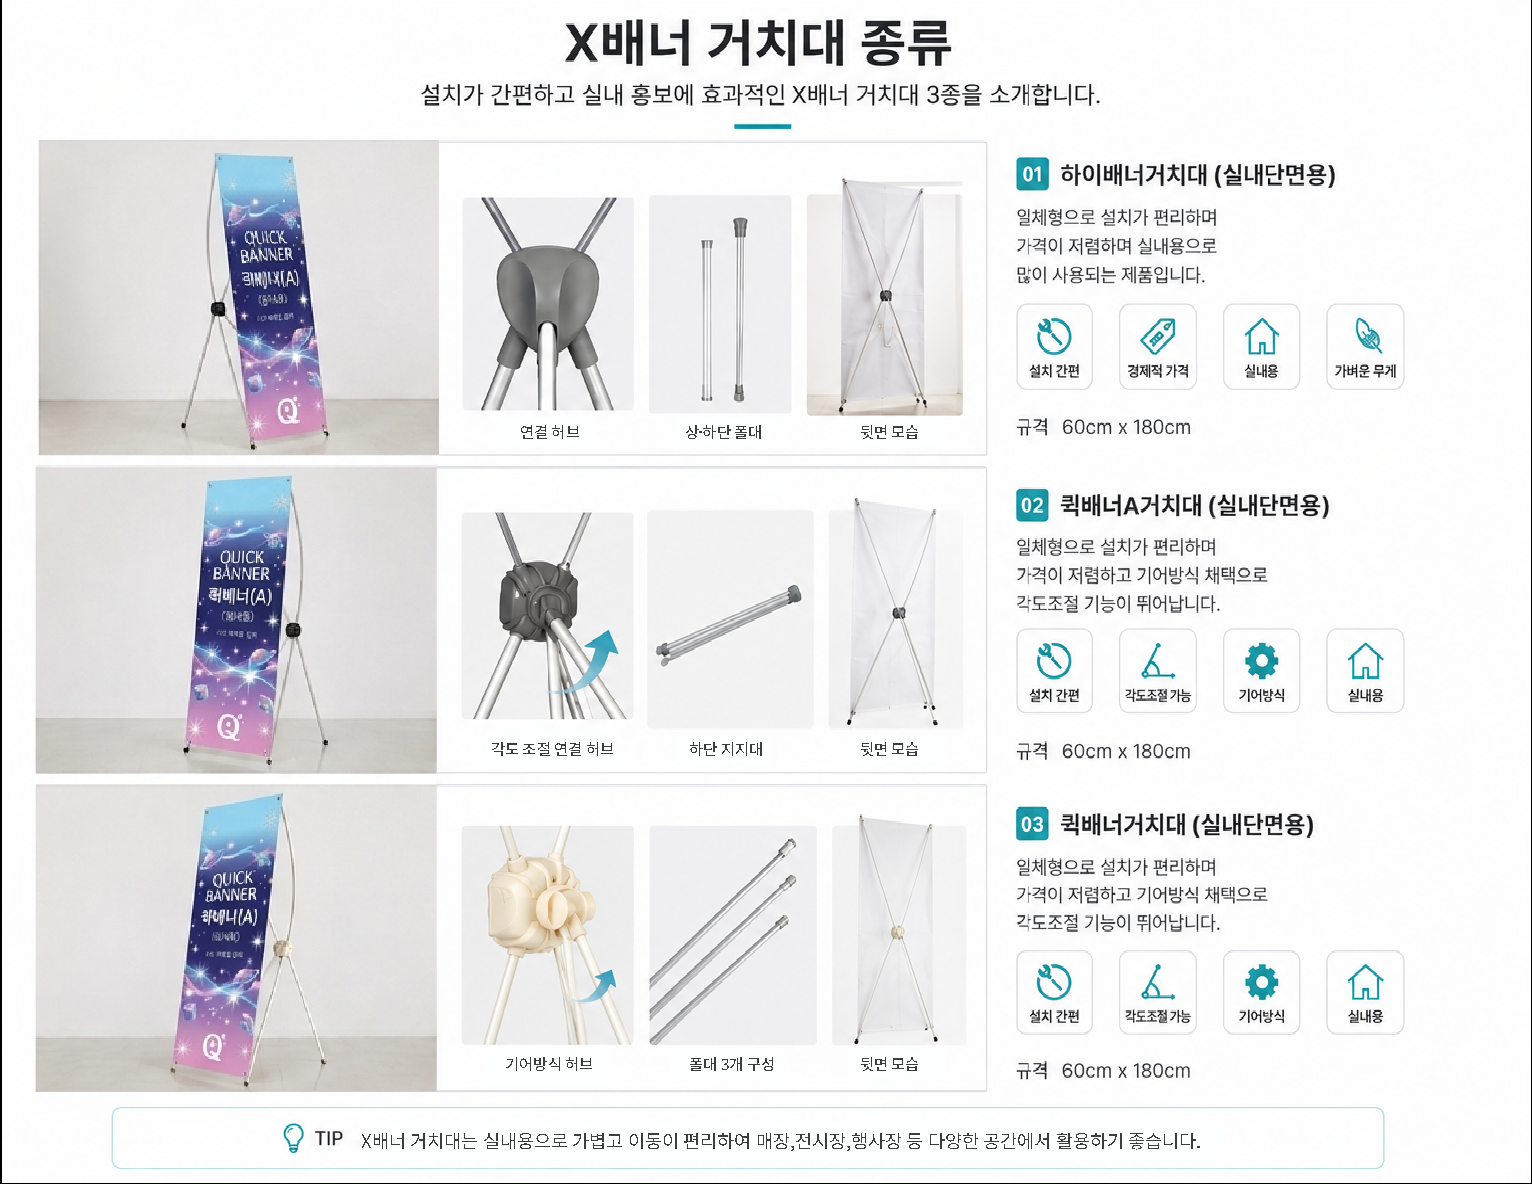
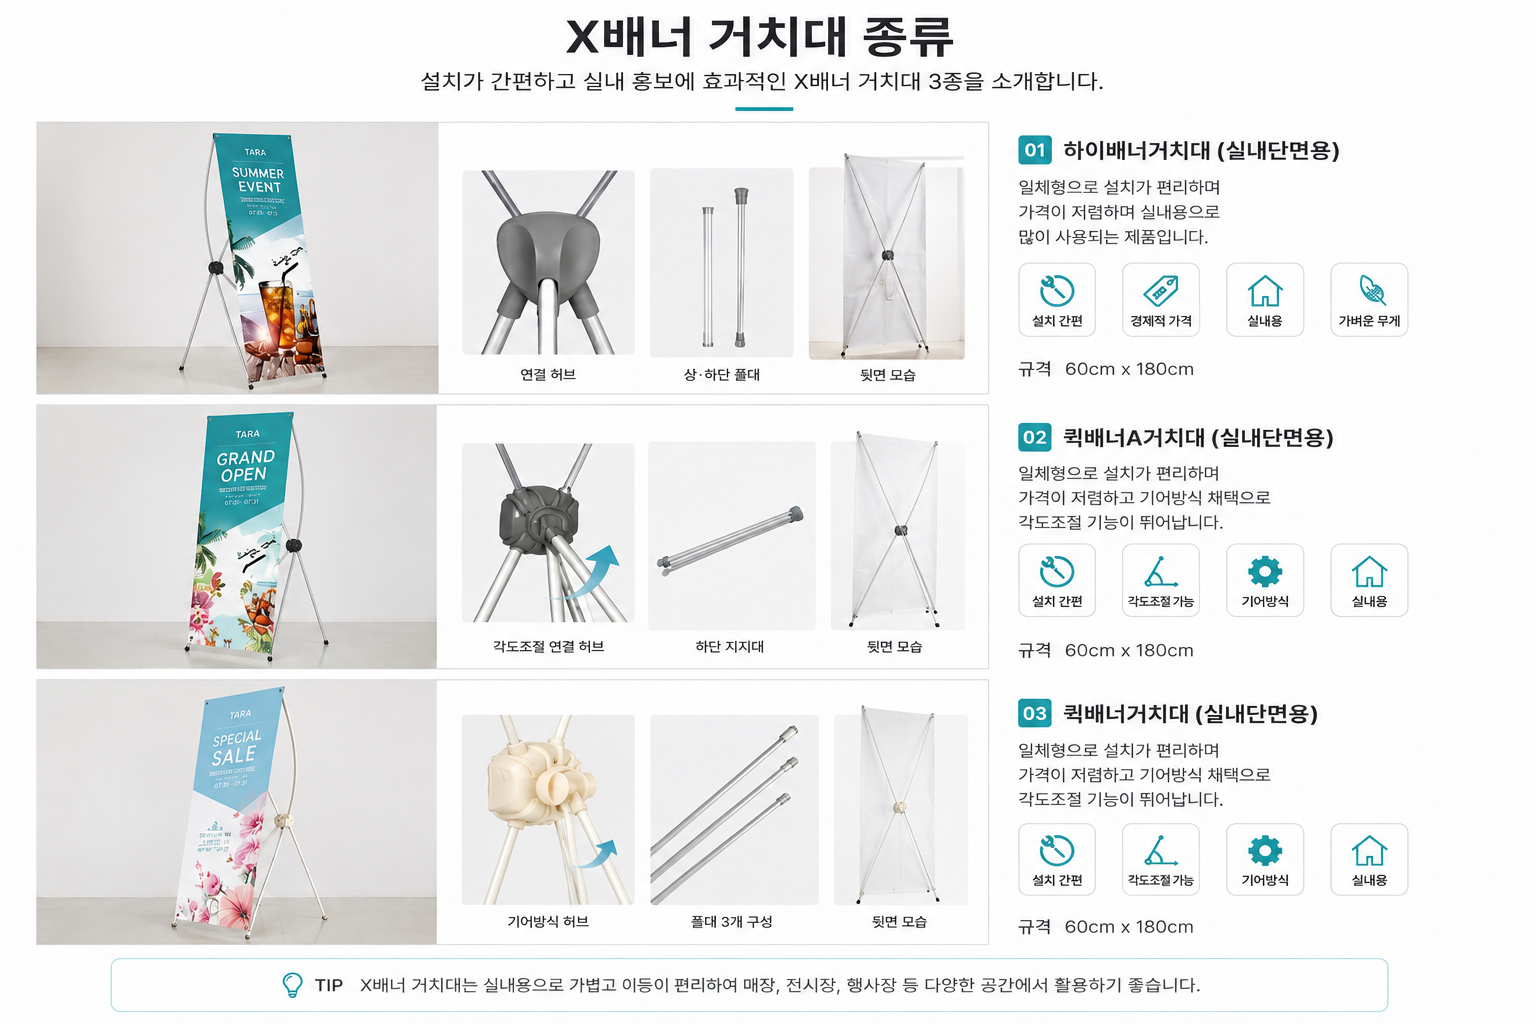
X배너 무스크립트 버전 적용

diff --git a/detail/xbanner.html b/detail/xbanner.html
@@ -86,7 +86,7 @@
 <section class="sec"><div class="inner">
 <div class="head"><div class="line"></div><p class="k">STAND GUIDE</p><h2>&#50857;&#46020;&#50640; &#47582;&#45716; X&#48176;&#45320; &#44144;&#52824;&#45824; &#49440;&#53469;</h2><p class="desc">&#49444;&#52824; &#54872;&#44221;&#44284; &#50696;&#49328;, &#44033;&#46020; &#51312;&#51208; &#54596;&#50836; &#50668;&#48512;&#50640; &#46384;&#46972; &#51201;&#54633;&#54620; &#44144;&#52824;&#45824;&#47484; &#49440;&#53469;&#54616;&#49464;&#50836;.</p></div>
 <div style="width:100%;max-width:100%;margin:0 auto;border:1px solid #e1e7ea;background:#fff;padding:18px;">
-<img src="https://tara-shopping.vercel.app/images/xbanner-stand-guide.png" alt="X&#48176;&#45320; &#44144;&#52824;&#45824; &#51333;&#47448; &#48708;&#44368; &#50504;&#45236;" style="display:block;width:100%;max-width:100%;height:auto;">
+<img src="https://tara-shopping.vercel.app/images/xbanner-stand-guide-1.png" alt="X&#48176;&#45320; &#44144;&#52824;&#45824; &#51333;&#47448; &#48708;&#44368; &#50504;&#45236;" style="display:block;width:100%;max-width:100%;height:auto;">
 </div>
 <div class="notice"><strong>&#49440;&#53469; &#54017;:</strong> &#44032;&#48316;&#50868; &#51060;&#46041;&#49457;&#51012; &#50896;&#54616;&#47732; &#54616;&#51060;&#48176;&#45320; &#44144;&#52824;&#45824;, &#44033;&#46020; &#51312;&#51208;&#51060; &#54596;&#50836;&#54616;&#47732; &#44592;&#50612;&#48169;&#49885; &#53217;&#48176;&#45320; &#44144;&#52824;&#45824;&#47484; &#44428;&#51109;&#54633;&#45768;&#45796;.</div>
 </div></section>
